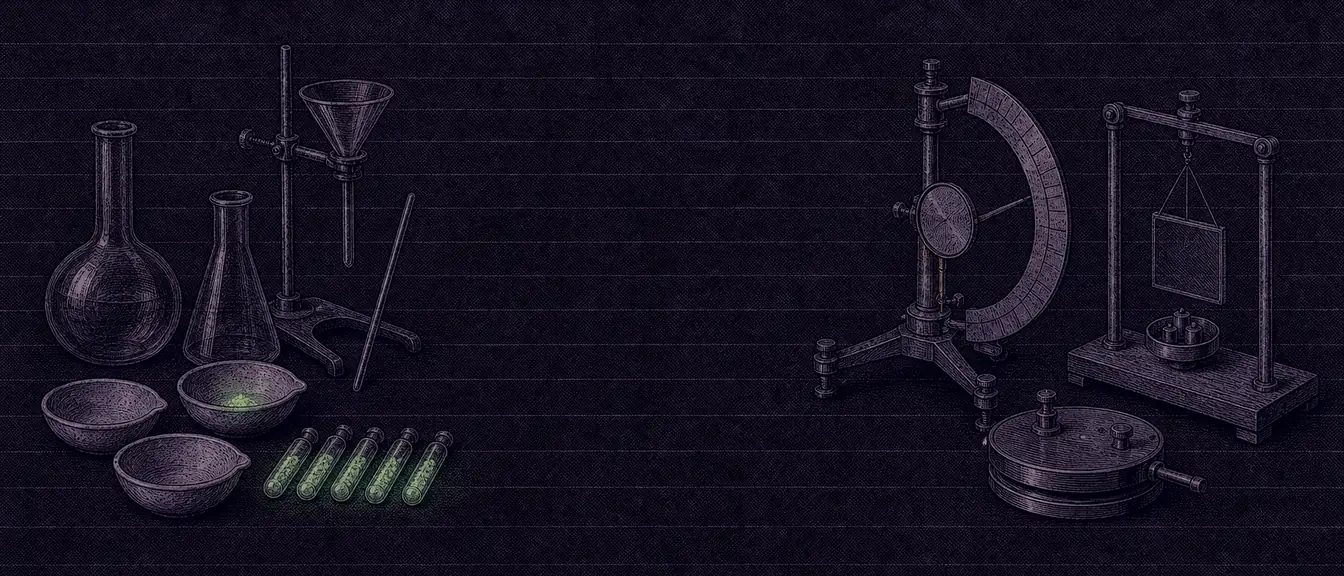
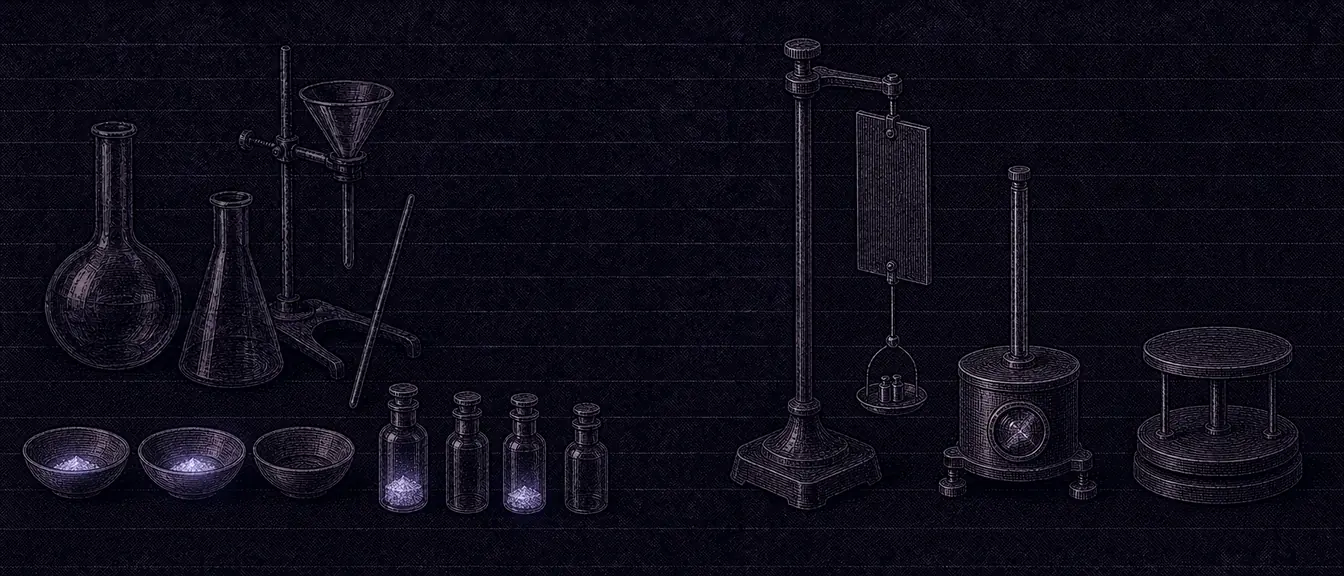
Check the play mats' details against sources; redraw Curie's and Leonardo's
Today's twelve Guides' mats checked against texts that can be read (archive.org):
Tubman's marsh and pines, Leonardo's water and red paper, Cleopatra's spiral,
Sun Tzu's two cords, the Curies' instruments, Shakespeare's acorn border,
Saladin's pulpit, Wu's phoenix and Joan's forked standard. Sources are in the
comment over MATS and CLAUDE.md's Play mats.

Curie's mat glowed green (radium salts glow bluish) and its quartz balance had
its pan standing on the base; Leonardo's water was clawed Japanese-style waves.
Both were repainted only where wrong, with a masked image edit.

Claude-Session: https://claude.ai/code/session_015uEsRw6hD2rgSarZKYnZDk

Changed region(s): [[0.0, 0.0, 1.0, 1.0], [0.5625, 0.0, 0.625, 0.0312], [0.5, 0.0, 0.5312, 0.0312]]

diff --git a/games/anoria/ui.js b/games/anoria/ui.js
@@ -1298,7 +1298,12 @@
   //     trees are William of Rubruck's account of 1253 (Rockhill's translation, 1900); the white standard with nine
   //     tails is the Secret History, section 202 (how it was made is not recorded: the row of nine is the picture's own)
   //   curie: the shed, the glow of the bottles and capsules at night and the piezo-electric quartz electrometer are
-  //     in her own book, Pierre Curie (1923)
+  //     in her own book, Pierre Curie (1923), which names the three instruments of the measuring set-up: a Curie
+  //     electrometer, a piezo-electric quartz and an ionization chamber of two plates one above the other. Her thesis
+  //     (Radio-active Substances, 1904) has the quartz stretched by 'placing weights in a plate'; Eve Curie, Madame
+  //     Curie (1938), has the glass receivers' 'phosphorescent bluish outlines'. Redrawn 2026-11-12: the first mat's
+  //     glow was green (the colour of later radium paint) and its weighing pan stood on the base instead of hanging
+  //     from the quartz, so the balance could not have worked; its arc-scale instrument was nothing the Curies used
   //   lincoln: the compass and chain, the rails and the axe are in his own account of his life (1860); the telegraph
   //     is Bates, Lincoln in the Telegraph Office (1907)
   //   mandela: the valley, the stream, the hills, the three huts and the maize at Qunu are as Long Walk to Freedom
@@ -1309,14 +1314,25 @@
   //   The first five: Franklin's kite of two cedar strips with a tail and a key is his own letter of 1752 (the kite
   //     was silk); Tubman's North Star is Bradford (1869); Leonardo's knots, solids and red chalk are in Muntz (1898);
   //     the lotus and papyrus are Owen Jones (1856); bamboo slips strung into books and the thunder scroll are
-  //     Bushell (1904). What rests on memory is listed in CLAUDE.md.
+  //     Bushell (1904). What rests on memory is listed in CLAUDE.md. Checked 2026-11-12:
+  //     tubman: the marsh and the pines are Shreve, The Plant Life of Maryland (1910): marshland 'as in southern
+  //       Dorchester County', a stream swamp on the Little Blackwater near Cambridge, and the Loblolly Pine dominant
+  //       in Dorchester's forest
+  //     leonardo: Richter, The Literary Works of Leonardo da Vinci (1883): the red chalk drawings and the 'silver point
+  //       on reddish paper' at Windsor, and his note that the surface of water 'resembles that of hair' and 'forms
+  //       eddying whirlpools'. Redrawn 2026-11-12: the first mat's water was breaking waves with clawed foam crests, like
+  //       a Japanese woodblock wave; it is now his study of a stream falling into a pool and curling into eddies
+  //     cleopatra: Owen Jones (1856), Egyptian Plate X: the running spiral 'arranged like an S' on tomb ceilings
+  //     suntzu: two cords is the usual binding of a bamboo book (Dao Companion to the Excavated Guodian Bamboo
+  //       Manuscripts, Springer 2019: 'two cords would have connected the slips in one bundle', and short slips 'bound
+  //       with three rather than two strings' are the exception); what the Yinqueshan Sunzi slips had could not be read
   //   The seven of the roster of twelve (2026-11-12), what each draws and where it can be read:
-  //   shakespeare: Shakespeare's England (Oxford, 1917), vol. 1, Agriculture and Gardening: the 'curious-knotted garden' (Love's Labour's Lost I.i) of box-edged beds laid out with mathematical precision, with Thomas Hill's 'proper knotte'; honeysuckle and 'pansies, that's for thoughts' in its list of Shakespeare's flowers; Desdemona's handkerchief embroidered with strawberries (Othello III.iii). The acorn-and-leaf border as a printer's woodcut ornament rests on memory.
-  //   joan: Murray, Jeanne d'Arc, Maid of Orleans (1902), the trial record: 'a banner of which the field was sprinkled with lilies ... it was white, of the white cloth called boccassin ... fringed with silk'; the arms granted to her brothers: 'a shield azure, two fleurs-de-lys of gold, and a sword betwixt', the sword argent, point upward, surmounted by a gilded crown. Left out on purpose: the world, the two angels and 'Jhesus Maria' she also described on it (no figures, no lettering). The swallow-tailed shape of the standard and the lily-powdered ground rest on memory.
-  //   saladin: Nur al-Din's carved cedar pulpit, which Saladin set up in the Aqsa Mosque in 1187, and the Horns of Hattin above the Lake of Galilee with Hermon snow-streaked to the north and the dry scrub burning, as Lane-Poole, Saladin and the Fall of the Kingdom of Jerusalem (1898), describes the field (the citadel tower of the first mat rested on memory, and Tim had it redrawn); the pulpit's carving rests on memory
-  //   wuzetian: Stein, Innermost Asia (1928), vol. 1: silks of the sixth to eighth centuries framing animals, 'single or in pairs, within medallion borders decorated with discs', pairs of confronting creatures woven by turning the pattern over, and a tree between the pair; earlier Chinese silks with a pair of phoenixes. That the phoenix was Wu Zetian's emblem, and the flower rosette, rest on memory.
+  //   shakespeare: Shakespeare's England (Oxford, 1917), vol. 1, Agriculture and Gardening: the 'curious-knotted garden' (Love's Labour's Lost I.i) of box-edged beds laid out with mathematical precision, with Thomas Hill's 'proper knotte'; honeysuckle and 'pansies, that's for thoughts' in its list of Shakespeare's flowers; Desdemona's handkerchief embroidered with strawberries (Othello III.iii). The acorn border: Thomas Trevelyon's pattern book of 1608 (Folger MS V.b.232; Hough, 'Drawen Workes', 2020) has 'oak leaves and acorns', 'acorns, strawberries, leaves' and honeysuckle with acorns among London's embroidery patterns of the day.
+  //   joan: Murray, Jeanne d'Arc, Maid of Orleans (1902), the trial record: 'a banner of which the field was sprinkled with lilies ... it was white, of the white cloth called boccassin ... fringed with silk'; the arms granted to her brothers: 'a shield azure, two fleurs-de-lys of gold, and a sword betwixt', the sword argent, point upward, surmounted by a gilded crown. Left out on purpose: the world, the two angels and 'Jhesus Maria' she also described on it (no figures, no lettering). The lily-powdered field is the trial's own 'sprinkled with lilies'. The forked end: Gordon, Flags of the World (1915), p. 223, draws her banner long and swallow-tailed; her own words give no shape, so the fork is how her standard has been drawn, not a record.
+  //   saladin: Nur al-Din's carved cedar pulpit, which Saladin set up in the Aqsa Mosque in 1187, and the Horns of Hattin above the Lake of Galilee with Hermon snow-streaked to the north and the dry scrub burning, as Lane-Poole, Saladin and the Fall of the Kingdom of Jerusalem (1898), describes the field (the citadel tower of the first mat rested on memory, and Tim had it redrawn). The pulpit's carving: Baedeker, Palestine and Syria (1898), 'beautifully carved in wood ... inlaid with ivory and mother-of-pearl', made at Aleppo in 1168; Auld, 'The Minbar of Nur al-Din in Context', in Hillenbrand and Auld, Ayyubid Jerusalem (2009): star-polygons with eight points round a boss, hexagons between, carved arabesque insets, small stars and squares of ivory or bone. (The mat's small inlays are faint turquoise, not ivory white: a small liberty, left as it is.)
+  //   wuzetian: Stein, Innermost Asia (1928), vol. 1: silks of the sixth to eighth centuries framing animals, 'single or in pairs, within medallion borders decorated with discs', pairs of confronting creatures woven by turning the pattern over, and a tree between the pair; earlier Chinese silks with a pair of phoenixes. The phoenix as hers: her Ming-t'ang of 688 at Luoyang was crowned with 'an iron phoenix, ten feet high' (Soper, 'The Dome of Heaven in Asia', The Art Bulletin, December 1947, from the T'ang records). The flower rosette rests on memory.
   //   akbar: Smith, The Moghul Architecture of Fathpur-Sikri (Archaeological Survey of India, 1894), the Turkish Sultana's house: carved red sandstone dado panels, one 'a garden walk ... in the centre is the cypress partly hidden by the branches of an almond tree', another with the pomegranate; and the 'red sandstone jali windows' and pierced stone screens. The exact lattice of the jali is the picture's own.
-  //   mansamusa: Dubois, Timbuctoo the Mysterious (1896, trans. 1897): Kankan Musa 'presented the Cathedral Mosque with a minaret of pyramidal form' (the minarets look like 'abbreviated pyramids'); native gold 'in rings', gold-dust, and the salt of Taghaza traded for gold. The wooden toron in the minaret rest on memory (Dubois does not mention them).
+  //   mansamusa: Dubois, Timbuctoo the Mysterious (1896, trans. 1897): Kankan Musa 'presented the Cathedral Mosque with a minaret of pyramidal form' (the minarets look like 'abbreviated pyramids'); native gold 'in rings', gold-dust, and the salt of Taghaza traded for gold. The wooden toron in the minaret rest on memory: Dubois does not mention them, and Caillie (Travels through Central Africa to Timbuctoo, 1830, vol. 2), who climbed the great mosque's tower, gives its plan, buttresses and inner stair but not them. Musa's own tower is long gone, so the toron are the look of the mosque as it stands.
   //   sorjuana: Her own Respuesta a Sor Filotea (1691), printed in Fama y obras posthumas (Madrid, 1700): she watched girls spin a top, had flour brought and sifted, and found that the top traced 'not perfect circles but spiral lines'. The tiles: Barber, The Maiolica of Mexico (1908), Puebla maiolica of 1650 to 1700 painted in blue, the 'white medallion variety with conventionalized floral decorations', used for convent dados. The quill and book are general.
   const MATK = 'anoria_mat', MATSRC = 'anoria/ui/mats/';
   const MATS = {

diff --git a/CLAUDE.md b/CLAUDE.md
@@ -596,13 +596,22 @@ Underlying principles for everything:
   cards' inked style, true to the Guide's own world, dark and close in tone, with no people, no faces and no lettering.
   The Place tiles cover the middle third, so what is worth seeing sits left and right of it. **A mat for a new Guide is
   one line in `MATS` (ui.js) and its picture**; until a Guide has one, that Guide plays on the chart of Anoria in their
-  faction's colour. All twelve Guides have one (the roster of twelve's seven, 2026-11-12, with their sources in the comment over `MATS`; resting on memory there: the knot garden's acorn border, how Saladin's carved panel and the Citadel's tower looked, the phoenix as Empress Wu's emblem, Timbuktu's toron beams). The mats of Guides who left stay in `MATS` for saved games, and the picker offers only today's Guides' mats and the chart. **What a mat draws is checked against a text that can be read** (archive.org
-  full texts are reachable; most museum sites are not): the comment over `MATS` names the source for each. Still resting
-  on memory, to be checked when a source can be read: the colours and figures of Thembu beadwork and the aloes
-  (Mandela), the shape of the Vijapur spinning wheel (Gandhi), the look of the Curies' instruments, the zigzag fence
-  and the bunting (Lincoln), how the nine-tailed standard was made (Genghis Khan), the sage and fern leaves, the press
-  and the Leyden jar (Franklin), the marsh and pines (Tubman), the wing, water and plant studies and the red-prepared
-  paper (Leonardo), the wave scroll (Cleopatra), and the number of cords on a bamboo book (Sun Tzu). The picture tool
+  faction's colour. All twelve Guides have one (the roster of twelve's seven, 2026-11-12, with their sources in the comment over `MATS`; resting on memory there: Wu's flower rosette and Timbuktu's toron beams, which no text that could be read mentions). The mats of Guides who left stay in `MATS` for saved games, and the picker offers only today's Guides' mats and the chart. **What a mat draws is checked against a text that can be read** (archive.org
+  full texts are reachable, and archive.org's full-text search finds the passage; most museum sites are not): the
+  comment over `MATS` names the source for each. Checked on 2026-11-12, for today's Guides: the marsh and pines
+  (Tubman), Leonardo's water and red paper, the wave scroll (Cleopatra), the two cords of a bamboo book (Sun Tzu),
+  the Curies' instruments, the acorn border (Shakespeare), Saladin's pulpit, the phoenix as Wu's emblem and the forked
+  end of Joan's standard (how it has been drawn since; her own words give no shape). **Two mats were redrawn for it**:
+  Curie's, whose radium glowed green (Eve Curie saw "phosphorescent bluish outlines"; green is later radium paint) and
+  whose quartz balance had its weighing pan standing on the base, so it could not have worked (the pan now hangs from
+  the quartz, beside a Curie electrometer and a two-plate ionization chamber, the set-up her own book names); and
+  Leonardo's, whose water was breaking waves with clawed foam crests like a Japanese print (it is now his own kind of
+  study, a stream falling into a pool and curling into eddies "like hair", as he wrote). Both were repainted only where
+  they were wrong (an image edit with a mask), so the rest of each mat is as it was. Still resting on memory: Leonardo's
+  wing and plant studies, and for the Guides who left (not checked: their mats are only for saved games) the colours
+  and figures of Thembu beadwork and the aloes (Mandela), the shape of the Vijapur spinning wheel (Gandhi), the zigzag
+  fence and the bunting (Lincoln), how the nine-tailed standard was made (Genghis Khan), and the sage and fern leaves,
+  the press and the Leyden jar (Franklin). The picture tool
   cannot count: Genghis Khan's standard came out with eight tails every time, and the ninth was put in by hand. The mats are built once and stay with their players (`paintMats`): no step of the game redraws
   them, and in pass and play they change places with the board at the hand-over. A new mat is checked on the table
   under pieces of both players' colours, at every size, before it goes in.
